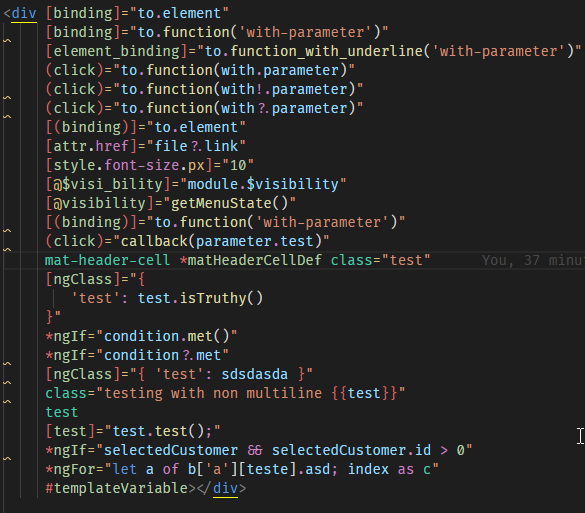
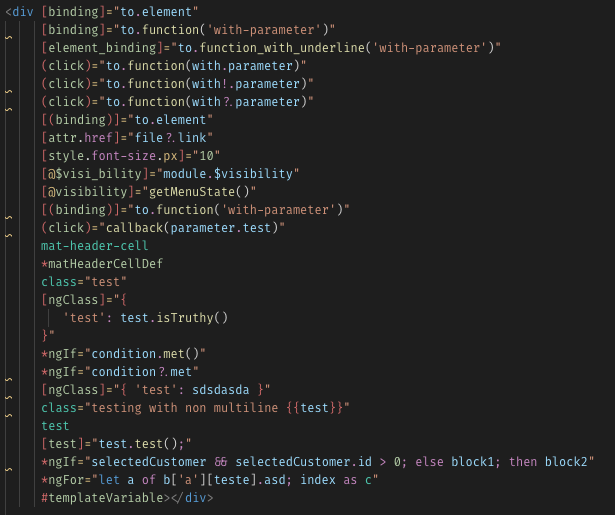
Fixed the dom events that were being overwritted by the attributes without equal, Added else and then keywords to *ngIf directives, Added color differentiation for angular structural tags

diff --git a/test/test.component.html b/test/test.component.html
@@ -197,7 +197,7 @@ ANGULAR DIRECTIVES
      class="testing with non multiline {{test}}"
      test
      [test]="test.test();"
-     *ngIf="selectedCustomer && selectedCustomer.id > 0"
+     *ngIf="selectedCustomer && selectedCustomer.id > 0; else block1; then block2"
      *ngFor="let a of b['a'][teste].asd; index as c"
      #templateVariable></div>
 
@@ -213,6 +213,20 @@ ANGULAR INTERPOLATIONS
 {{ user?.preferences?.avatar }}
 {{ user?.name | uppercase }}
 {{ user!.preferences!.nickName | uppercase }}
+
+ANGULAR STRUCTURAL TAGS
+
+<ng-content>
+  <span [class]="test()"></span>
+</ng-content>
+
+<ng-container *ngIf="condition?.met">
+
+</ng-container>
+
+<ng-template #noPublishedDate>
+  😿 No published date
+</ng-template>
 
 <input 
       type="text"
@@ -233,9 +247,6 @@ ANGULAR INTERPOLATIONS
 <span *ngIf="publishedDate; else noPublishedDate">
   Published: {{ publishedDate | date:'fullDate' }}
 </span>
-<ng-template #noPublishedDate>
-  😿 No published date
-</ng-template>
 
 <ul>
   <li *ngFor="let user of users">

diff --git a/README.md b/README.md
@@ -25,6 +25,7 @@ This plugin adds syntax highlighting for angular HTML template files in VS Code.
 - [Invalid attributes](#invalid-attributes)
 - [Angular directives](#angular-directives)
 - [Angular interpolations](#angular-interpolations)
+- [Angular structural tags](#angular-structural-tags)
 - [Entities](#html-entities)
 - [Regex](#regex)
 - [Deprecated tags](#deprecated-tags)
@@ -63,6 +64,12 @@ This plugin adds syntax highlighting for angular HTML template files in VS Code.
 <span name="angular-interpolations"></span>
 
 <img src="https://raw.githubusercontent.com/ghaschel/vscode-angular-html/master/assets/angular-interpolations.png" title="Angular Interpolations" alt="Angular Interpolations" />
+
+### Angular structural tags
+
+<span name="angular-structural-tags"></span>
+
+<img src="https://raw.githubusercontent.com/ghaschel/vscode-angular-html/master/assets/angular-structural-tags.png" title="Angular Structural Tags" alt="Angular Structural Tags" />
 
 ### Entities
 

diff --git a/CHANGELOG.md b/CHANGELOG.md
@@ -1,6 +1,12 @@
 # Change Log
 
-# 1.1.4 (15/08/2018)
+# 1.2.0 (23/08/2019)
+
+- Fixed the dom events that were being overwritted by the attributes without equal [#25](https://github.com/ghaschel/vscode-angular-html/issues/25)
+- Added `else` and `then` keywords to *ngIf directives [#23](https://github.com/ghaschel/vscode-angular-html/issues/23)
+- Added color differentiation for angular structural tags [#24](https://github.com/ghaschel/vscode-angular-html/issues/24)
+
+# 1.1.4 (15/08/2019)
 
 - Fixed an issue with tags starting with deprecated tag names [#22](https://github.com/ghaschel/vscode-angular-html/issues/22)
 
